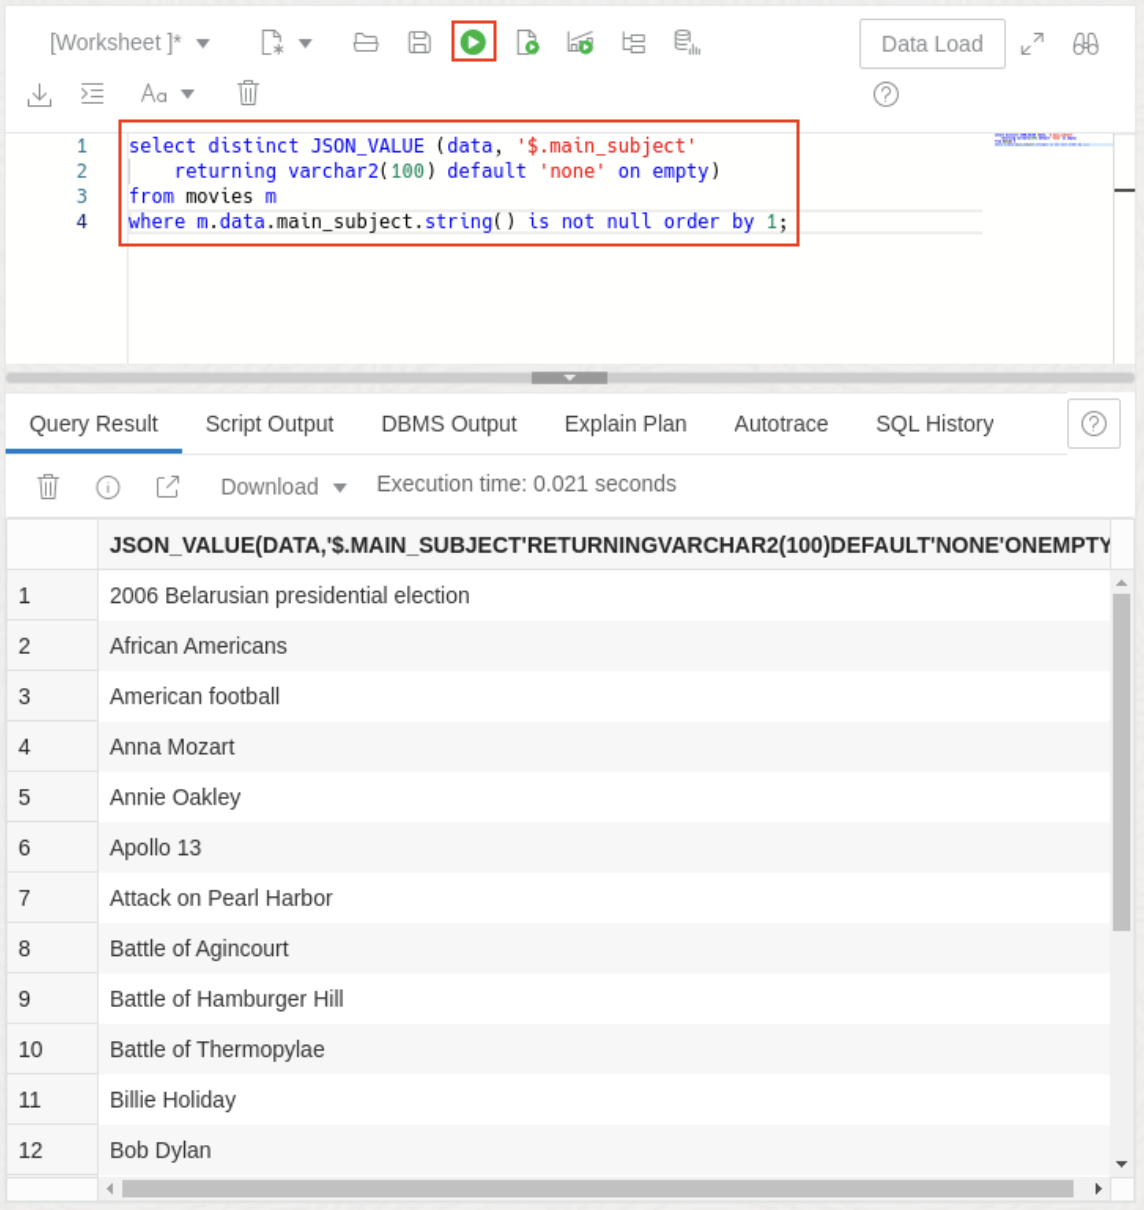
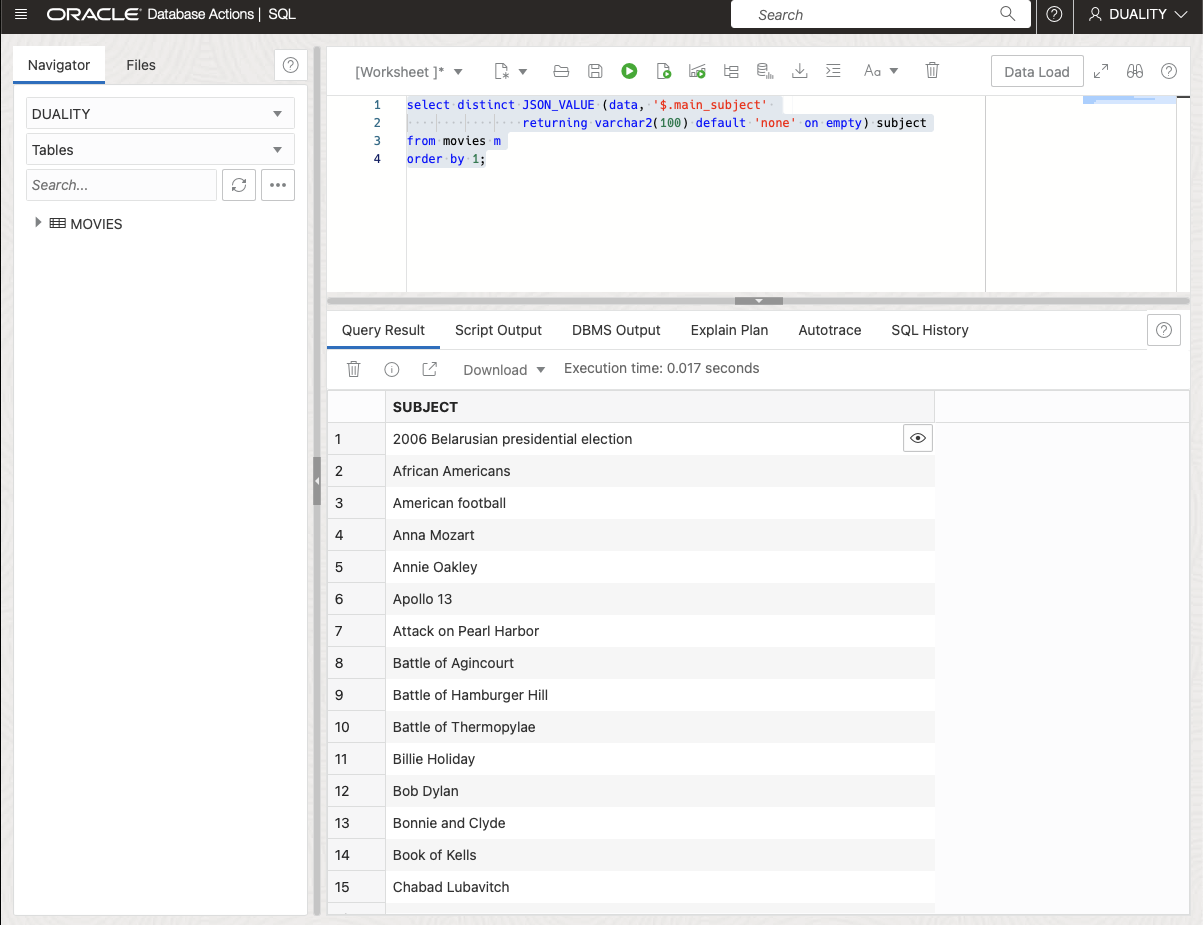
WMS 11382: OCW, final fixes and enhancements (#254)
* Update intro-json-enhancements.md

* OCW23c - HOL 29

phase one of OCW adjustments

* minor fixes

additional link, modified manifest

* mainfest file fix

more workshop-specific section.

* minor fixes

Typos, additions to highlight 23c functionality, fixed broken images.

* minor enhancements and fixes

random things like rewording, etc.

* lowercase naming

adjusted naming

* name fixing .. mac issue

phase 1 to address mac case insensitivity

* name fixing phase 2

change names back

* name phase 3

.. almost done ..

* hopefully last mixed case image name fix

Needed to change names back and forth since the Mac ignores name changes due to its case insensitivity

* Delete sql-with-error.png

* Create sql-with-error.png

* Delete sql-with-error.png

* Create SQL-with-error.png

* image rename

* image fix

* fine tuning and minor fixes

fine tuning and minor bug fixes

diff --git a/23cfree/json-sql/json-sql.md b/23cfree/json-sql/json-sql.md
@@ -17,8 +17,7 @@ Estimated Time: 45 minutes
 
 In this lab, you will:
 
-* Use JSON_Serialize to convert binary JSON data to a human-readable string.
-* Use dot notation to extract values from JSON data.
+* Use simple dot notation to extract values from JSON data.
 * Use nesting and unnesting methods to
 * Explore SQL/JSON path expressions to query JSON data.
 * Update documents using JSON\_Mergepatch and JSON\_transform.
@@ -27,9 +26,10 @@ In this lab, you will:
 ### Prerequisites
 
 - Oracle Database 23c Free Developer Release
+- ORDS up and running (for Database Actions). Alternatively, you can use sqlplus or sqlcl
 - All previous labs successfully completed
 
-## Task 1: SQL Developer Web
+## Task 1: Explore the table behind your JSON collection
 
 1. Open Database Actions (if you don't already have it open). Either choose **SQL** under Development from the launchpad, or click on the navigation menu on the top left and select **SQL** under Development.
 
@@ -41,24 +41,24 @@ In this lab, you will:
     ![SQL navigation](./images/nav-sql.png)
     ![SQL development navigation](./images/development-sql.png)
 
-2. On the left side, click on MOVIES - this is the table for the 'movies' collection. To get the view displayed, you need to right-click on **MOVIES** and choose **Open**.
+2. On the left side, click on MOVIES - this is the table for the 'movies' collection. To get the details about its data structure displayed, you need to right-click on **MOVIES** and choose **Open**.
 
     ![Open table](./images/open-movies.png)
     ![View table](./images/table-view.png)
 
-    You see that the table 'MOVIES' has 5 columns: an 'ID' which is a unique identifier for the document (and in the case of MongoDB-compatible collections, is taken from the "_id" field in the JSON), a column 'DATA' which holds the JSON document, 2 metadata columns to keep track of creation and update timestamps and 'VERSION' which is typically a hash value for the document and allows us to keep caches in sync (similar to an eTag). None of this is really important at this point as we will only use the DATA column in the following examples.
+    You see that the table 'MOVIES' has 5 columns: an 'ID' which is a unique identifier for the document (and in the case of MongoDB-compatible collections, is taken from the "_id" field in the JSON), a column 'DATA' which holds the JSON document in Oracle's binary OSON format, 2 metadata columns to keep track of creation and update timestamps and 'VERSION' which is typically a hash value for the document and allows us to keep caches in sync (similar to an eTag). None of this is really important at this point as we will only use the DATA column in the following examples. The DATA column holds our JSON document within the collection MOVIES.
 
     *Learn more -* [Use Oracle Database Actions with JSON Collections](https://docs.oracle.com/en/cloud/paas/autonomous-json-database/ajdug/use-oracle-database-actions-json-collections1.html) and [Use SQL With JSON Data](https://docs.oracle.com/en/database/oracle/oracle-database/21/adjsn/json-in-oracle-database.html#GUID-04377B36-654B-47C4-A480-535E00E46D1F)
 
 ## Task 2: JSON Fundamentals
 
-1. Because the JSON data is stored in a binary representation (for query and update efficiency) we need to convert it to a human-readable string using JSON_Serialize.
+1. Because the JSON data is stored in a binary representation in OSON format (for query and update efficiency) we need to convert it to a human-readable string using JSON_Serialize.
 
     Copy and paste this query into SQL Developer Web worksheet and run it. It returns 9 (random) documents from the table/collection.
 
     ```
     <copy>
-    select JSON_Serialize(data) from movies where rownum < 10;
+    select JSON_Serialize(data pretty) from movies where rownum < 10;
     </copy>
     ```
 
@@ -68,7 +68,10 @@ In this lab, you will:
 
     ```
     <copy>
-    select m.data.opening_date.date(), m.data.title, m.data.list_price.number()  from movies m
+    select m.data.opening_date.date() as opening_date
+         , m.data.title               as title
+         , m.data.list_price.number() as price  
+    from movies m
     where m.data.list_price.number() = 1.99
     order by 1 desc
     fetch first 10 rows only;
@@ -86,13 +89,13 @@ In this lab, you will:
 
     ```
     <copy>
-    select jt.*
-    from movies m nested data columns ("_id", title, year NUMBER) jt;
+    SELECT jt.*
+    FROM movies m NESTED data COLUMNS ("_id", title, year NUMBER) jt;
     </copy>
     ```
     ![Extracting nested data](./images/json-extracting.png " ")
 
-    As you can see we're extracting the '_id', the 'title' and the 'year' from each document. Instead of a trailing function we can specify an optional SQL data type like NUMBER - the default (used for the title) is a VARCHAR2(4000). Note that since _id starts with an underscore character it's necessary to put it in quotes.
+    As you can see we're extracting the '_id', the 'title' and the 'year' from each document. Instead of a trailing function we can specify an optional SQL data type like NUMBER - the default (used for the title) is a VARCHAR2(4000). Note that since _id starts with an underscore character it's necessary to put it in quotes. Note also that the other attributes we are extracting are case sensitive. So you need to use 'title' and cannot use 'Title'.
 
 2.  We could have written this query with the simple dot notation, as well, because we do not drill into any JSON array yet. Let's do that in  this query, by using the NESTED clause also in the *COLUMNS* clause.
 
@@ -144,22 +147,21 @@ Now let's look at the different SQL/JSON operators step by step:
 
 ### JSON_Value
 
-JSON_VALUE takes one scalar value from the JSON data and returns it as a SQL scalar value.
+JSON_VALUE takes one **scalar** value from the JSON data and returns it as a SQL scalar value.
 
-1.  The first argument is the input, the column 'data' from the products collection/table. This is followed by a path expression, in this case, we select the value for field 'format'. The optional 'returning' clause allows us to specify the return type, in this case, a varchar2 value of length 10. Because not every product has a 'format' value (only the movies do) there are cases where no value can be selected. By default NULL is returned in this case. The optional ON EMPTY clause allows us to specify a default value (like 'none') or to raise an error - with ERROR ON EMPTY.
-
-    _There is a bug in SQL Developer Web which means it does not parse this query correctly, if you see the error: "ORA-00923: FROM keyword not found where expected" then just make sure the whole query is selected before you attempt to run it._
+1.  The first argument is the input, the column 'data' from the products collection/table. This is followed by a path expression, in this case, we select the value for field 'main\_subject'. The optional 'returning' clause allows us to specify the return type, in this case, a varchar2 value of length 100. Because not every product has a 'main\_subject' value there are cases where no value can be selected. By default NULL is returned in this case. The optional ON EMPTY clause allows us to specify a default value (like 'none') or to raise an error - with ERROR ON EMPTY.
 
     ```
     <copy>
-    select distinct JSON_VALUE (data, '$.main_subject' returning varchar2(100) default 'none' on empty)
+    select distinct JSON_VALUE (data, '$.main_subject' 
+            returning varchar2(100) default 'none' on empty) subject
     from movies m
-    where m.data.main_subject.string() is not null order by 1;
+    order by 1;
     </copy>
     ```
     ![JSON value](./images/json-value.png " ")
 
-2.  JSON_Value can only select one scalar value. The following query will not return a result because it selects the array of actors.
+2.  JSON_Value can only select one scalar value. The following query will not return a result because it selects the array of actors. (The default is NULL ON ERROR)
 
     ```
     <copy>
@@ -171,7 +173,7 @@ JSON_VALUE takes one scalar value from the JSON data and returns it as a SQL sca
 
 ### JSON_Query
 
-Unlike JSON\_Value (which returns one SQL scalar value) the function JSON\_Query can extract complex values (objects or arrays), and it can also return multiple values as a new JSON array. The result of JSON_Query is JSON data itself, for example an object or array.
+Unlike JSON\_Value (which returns one SQL scalar value) the function JSON\_Query can extract complex values (objects or arrays), and it can also return multiple values as a new JSON array. The result of JSON_Query is **JSON data** itself, for example an object or array.
 
 1. This query extracts the embedded array of actors. Scroll down the `Query Result` to see the values.
 
@@ -181,6 +183,8 @@ Unlike JSON\_Value (which returns one SQL scalar value) the function JSON\_Query
     </copy>
     ```
     ![JSON query](./images/json-query.png " ")
+
+    *Learn more -* [SQL/JSON Condition JSON_QUERY](https://docs.oracle.com/en/database/oracle/oracle-database/23/adjsn/function-JSON_QUERY.html#GUID-D64C7BE9-335D-449C-916D-1123539BF1FB)
 
 
 ### JSON_Exists
@@ -197,9 +201,9 @@ JSON_Exists is used to filter rows, therefore you find it in the WHERE clause. I
     order by 1;
     </copy>
     ```
-    ![JSON exists](./images/json-exists.png " ")
-
     This is expressed using a path predicate using the question mark (?) symbol and a comparison following in parentheses. The '@' symbol represents the current value being used in the comparison. For an array the context will be every item of the array - one can think of iterating through the array and performing the comparison for each item of the array. If any item satisfies the condition than JSON_Exists selects the row.
+
+    ![JSON exists](./images/json-exists.png " ")
 
 2.  The following selects all movies with two or more genres, one genre has to be 'Sci-Fi' and an actor's name has to begin with 'Sigourney'.
 
@@ -212,11 +216,11 @@ JSON_Exists is used to filter rows, therefore you find it in the WHERE clause. I
     ```
     ![genres query](./images/json-exists-genres.png " ")
 
-    SODA QBE filter expressions are rewritten to use JSON_Exists.
+    (Fun tidbit: SODA QBE filter expressions as you used before in Database Actions in the UI are rewritten to use JSON_Exists.)
 
     *Note:* Indexes can be added to speed up finding the right documents.
 
-    *Learn more -* [SQL/JSON Condition JSON_EXISTS](https://docs.oracle.com/en/database/oracle/oracle-database/21/adjsn/condition-JSON_EXISTS.html#GUID-D60A7E52-8819-4D33-AEDB-223AB7BDE60A)
+    *Learn more -* [SQL/JSON Condition JSON_EXISTS](https://docs.oracle.com/en/database/oracle/oracle-database/23/adjsn/condition-JSON_EXISTS.html#GUID-D60A7E52-8819-4D33-AEDB-223AB7BDE60A)
 
 ### JSON_Table
 
@@ -239,36 +243,35 @@ JSON\_Table is used to 'flatten' hierarchical JSON data to a table consisting of
     fetch first 10 rows only;
     </copy>
     ```
-    ![flatten hierachy with JSON table](./images/json-table.png " ")
-
+   
 2.  Like the other SQL/JSON operators the first input is the JSON data - the column 'data' from the products collection/table. The first path expressions, '$', is the row path expression - in this case, we select the entire document. It would be possible to directly access an embedded object or array here, for example '$.starring[*]' would then generate a row for each actor.
 
     The *columns* clause then lists each column. Let's go over this line by line:
     *	The '_id' column is defined to be a number instead of the default VARCHAR2(4000).
-    *	The next column is called 'ProductName' which is not a field name in the JSON data, we therefore need to tell which field name we want to use. This is done by providing a title column path expression, '$.title', which targets field 'title'. We also set the data type to be a VARCHAR2 of length 50.
-    *	The column 'type' uses the same name as the field in the JSON, therefore we do not need to provide a path expression. Also, we accept the default datatype.
-    *	Field 'actors' does not exist, so we map the actors, which are elements of array 'starring', to column 'actors' using path expression '$.starring'. We use FORMAT JSON to specify JSON\_Table that this column has JSON\_Query  semantics and the returned value is JSON itself - in this case, we extract the embedded array.
+    *	The next column is called 'movie_title' which is not a field name in the JSON data, we therefore need to tell which field name we want to use. This is done by providing a title column path expression, '$.title', which targets field 'title'. We also set the data type to be a VARCHAR2 of length 100.
+    *	Field 'actors' does not exist, so we map the actors, which are elements of array 'cast', to column 'actors' using path expression '$.cast'. We use FORMAT JSON to specify JSON\_Table that this column has JSON\_Query  semantics and the returned value is JSON itself - in this case, we extract the embedded array.
     *	Similarly, we use the keyword 'EXISTS' to specify that the next column ('year') or JSON_Exists semantics. We're not interested in the actual year value - only if a value exists or not. You will therefore see true|false values for this column (or 1|0 if you change the return type to NUMBER).
-    *	The last column 'numGenres' is an example of using a path item method (or trailing function), in this case, we call 'size()' on an array to count the number of values in the array. There are many other trailing functions that can be used.
+    *	The last column 'num_genres' is an example of using a path item method (or trailing function), in this case, we call 'size()' on an array to count the number of values in the array. There are many other trailing functions that can be used.
 
-    Multiple JSON arrays on the same level can also be projected out by using 'nested paths' on the same level, as the following example shows with the array of actors and genres. The values of the sibling arrays are returned in separate rows instead of merging them into the same row, for two reasons: The arrays could be of different sizes and there is no clear rule on how to combine values from different arrays. In this example, 'genres' and 'actors' have nothing to do with each other. Why should the first actor name be placed in the same row as the first genre? This is why you see the NULL values in the result. This is a UNION join.
+ ![flatten hierachy with JSON table](./images/json-table.png " ")
 
-    ```
-    <copy>
-    select jt.*
-    from movies m,
-    JSON_TABLE (data, '$' columns (
-    title,
-    nested path '$.cast[*]'
-    columns (actor path '$'),
-    nested path '$.genre[*]'
-    columns (genre path '$')
+Note the column actors for the first title 'SuperAction Mars', which has an array of two actors. Like with the simplified nested syntax, you can unflatten this embedded array by another nested clause inside the column expression as follows:
+```
+<copy>select jt.*
+from movies m,
+JSON_TABLE (data, '$' columns (
+    "_id",
+    movie_title varchar2(100) path '$.title',
+    NESTED path '$.cast[*]' columns (actor path '$'),
+    year EXISTS,
+    num_genres NUMBER path '$.genre.size()'
     )) jt
-    where m.data.title = 'Gladiator';
-    </copy>
-    ```
-    ![advanced JSON table](./images/json-table-advanced.png " ")
-
+order by m.data.year.number() desc
+fetch first 10 rows only;
+</copy>
+```
+ ![flatten hierachy with JSON table two levels](./images/json-table-2.png " ")
+   
 3.  A common practice is to define a database view using JSON\_TABLE. Then you can describe and query the view like a relational table. Fast refreshable materialized views are possible with JSON\_Table but not covered in this lab.
 
     For example, create view movie_view as:

diff --git a/23cfree/introduction/intro-json-enhancements.md b/23cfree/introduction/intro-json-enhancements.md
@@ -8,7 +8,7 @@ This lab is organized into different topics, each topic consists of multiple ste
 
 ### Workshop Scenario
 
-In this workshop, we work on one of the core components of our online MovieStream service: the movies catalog(maybe you find your favorite movie?). We show how the movies catalog can be managed with JSON in a very schema-flexible way - allowing us to add and modify our offering on the fly, both using Mongo DB API or SQL. the main emphasis is to demonstrate the agility and flexibility of Oracle's converged database but to focus on the representation and manipulation of JSON data in the Oracle database.
+In this workshop, we work on one of the core components of our online MovieStream service: the movies catalog (maybe you find your favorite movie?). We show how the movies catalog can be managed with JSON in a very schema-flexible way - allowing us to add and modify our offering on the fly, both using Mongo DB API or SQL. the main emphasis is to demonstrate the agility and flexibility of Oracle's converged database but to focus on the representation and manipulation of JSON data in the Oracle database.
 
 This workshop is not a 'cookbook' or 'design guideline' on how to work with JSON data - the purpose is to illustrate various JSON features that the Oracle Database offers. That said, you likely find that many examples are applicable to your business needs!
 
@@ -67,14 +67,14 @@ Now you know what JSON is and also why so many people love it. Enough theory for
 ### Objectives
 
 In this workshop, you will explore: 
-*	How to store, query and process JSON documents in collections using the SODA API
+*	How to store, query and process JSON documents in collections using Database Actions
+*	How to use the Mongo API to query or manipulate date in the Oracle Database
 *	How to use SQL to query, generate and process JSON data
-*	How to use the Mongo API to query or manipulate data in the Oracle Database
 *	How to use the newest SQL Enhancements to work with JSON data
 
 ### Prerequisites
 
-- An Oracle Database 23c Free Developer Release or one running in a LiveLabs environment
+- An Oracle Database 23c Free Developer Release and ORDS running (with MongoDB API enabled), or a LiveLabs sandbox environment
 
 You may now proceed to the next lab.
 
@@ -83,8 +83,7 @@ You may now proceed to the next lab.
 * [Overview of JSON](https://docs.oracle.com/en/database/oracle/oracle-database/23/adjsn/json-data.html#GUID-B2D82ED4-B007-4019-8B53-9D0CDA81C4FA)
 * [Otube: Oracle Moviestream - Powered by Autonomous Database](https://otube.oracle.com/media/Oracle+MovieStream+-+Powered+by+Autonomous+Database/1_g4d9hdfg)
 * [JSON Relational Duality: The Revolutionary Convergence of Document, Object, and Relational Models](https://blogs.oracle.com/database/post/json-relational-duality-app-dev)
-* [JSON Duality View documentation](http://docs.oracle.com)
-
+* [Installing Database API for MongoDB for any Oracle Database ](https://blogs.oracle.com/database/post/installing-database-api-for-mongodb-for-any-oracle-database)
 
 ## Acknowledgements
 

diff --git a/23cfree/json-collections/json-collections.md b/23cfree/json-collections/json-collections.md
@@ -200,18 +200,7 @@ Now let's issue some simple queries on the **movies** collection we just created
 	```
 	![QBE condition is new result](./images/qbe-new-result.png)
 
-6. Find bargains of all products costing 5 or less:
-
-	This query displays the documents with ids 100 and 102 as those documents have price less than or equal to 5.
-
-	```
-	<copy>
-	{"price":{"$lte":5}}
-	</copy>
-	```
-	![QBE results for price less than 5](./images/qbe-lte5-result.png)
-
-7. Tighten the previous query to choose only DVD format documents:
+6. Find bargains of all products costing 5 and choose only DVD format documents:
 
 	This query displays the document id 100, as this document has a price less than 5 and is the format DVD.
 
@@ -236,7 +225,15 @@ More generally, constraints can be used to check the data being entered for vari
 
 2. We want to ensure that our JSON data satisfies minimal data quality, so we will create a constraint to enforce a couple of mandatory fields and their data types. **Enforcing a JSON schema is new functionality in Oracle Database 23c.**
 
-    Copy and paste the query below in the worksheet and click the *Run query* button to run the SQL query to alter the **movie** table and add constraints.
+	To quickly recap what the documents look like, let's look at the first JSON document quickly. (Don't worry, we will have a closer look into the SQL world with JSON later):
+	```
+	<copy>
+	select json_serialize(data pretty) from movies fetch first 1 rows only;
+	</copy>
+	```
+	![Single document in SQL](./images/show-single-json-in-sql.png)
+
+    Now copy and paste the query below in the worksheet and click the *Run query* button to run the SQL query to alter the **movie** table and add constraints.
 
     ```
     <copy>alter table movies add constraint movies_json_schema
@@ -318,7 +315,7 @@ More generally, constraints can be used to check the data being entered for vari
 	![create allowed item](./images/create-right-type.png)
 	![doc successfully created](./images/json-doc-created.png)
 
-7. Optionally, you can ask the database for the problems with your payload. Navigating back to the SQL page, you can enter this command to see the errors with your JSON payload. **JSON schema is new functionality in Oracle Database 23c.**
+7. Now that was quite cumbersome to figure out the mistakes manually. But there's a better way: you can ask the database for the problems with your payload. Navigating back to the SQL page, you can enter this command to see the errors with your JSON payload. **JSON schema is new functionality in Oracle Database 23c.**
 
     ```
     <copy>
@@ -337,6 +334,8 @@ More generally, constraints can be used to check the data being entered for vari
     /
     </copy>
     ```
+	The output shows you all the violations in detail, so that it is easier to address the issues.
+
 	![SQL to find JSON doc problem](./images/sql-shows-schema-error.png)
 
 8. You may also check the JSON Schema definition in your data dictionary. **JSON schema is new functionality in Oracle Database 23c.**

diff --git a/23cfree/json-mongo/json-mongo.md b/23cfree/json-mongo/json-mongo.md
@@ -138,6 +138,12 @@ Let's take some time to demonstrate the interactivity between the Oracle and Mon
 	![Homepage Development JSON](./images/development-json.png)
 
 4. Let's edit the entries in SQL Developer Web and see the changes in Mongo Shell. First, double click on the document referencing the movie "SuperAction Mars," or click the "Edit Document" icon next to it. In the dialog page, change the year to 2025 and then save the document. Seems Tom Cruise is busy and won't have enough time to finish the movie before then.
+
+    ```
+    <copy>{ "title": "SuperAction Mars" }
+    </copy>
+    ```
+
 	![Find SuperAction Mars](./images/find-superaction-mars.png)
 	![Edit SuperAction Mars](./images/edit-superaction-mars.png)
 

diff --git a/23cfree/change-pw/change-pw-json-enhancements.md b/23cfree/change-pw/change-pw-json-enhancements.md
@@ -16,6 +16,7 @@ In this lab, you will:
 
 This lab assumes you have:
 * Oracle Database 23c Free Developer Release
+* ORDS 22.3.0 or higher installed with enabled MongoDB API
 * A terminal or console access to the database
 
 ## Task 1: Setting database user password and ensure you can connect properly
